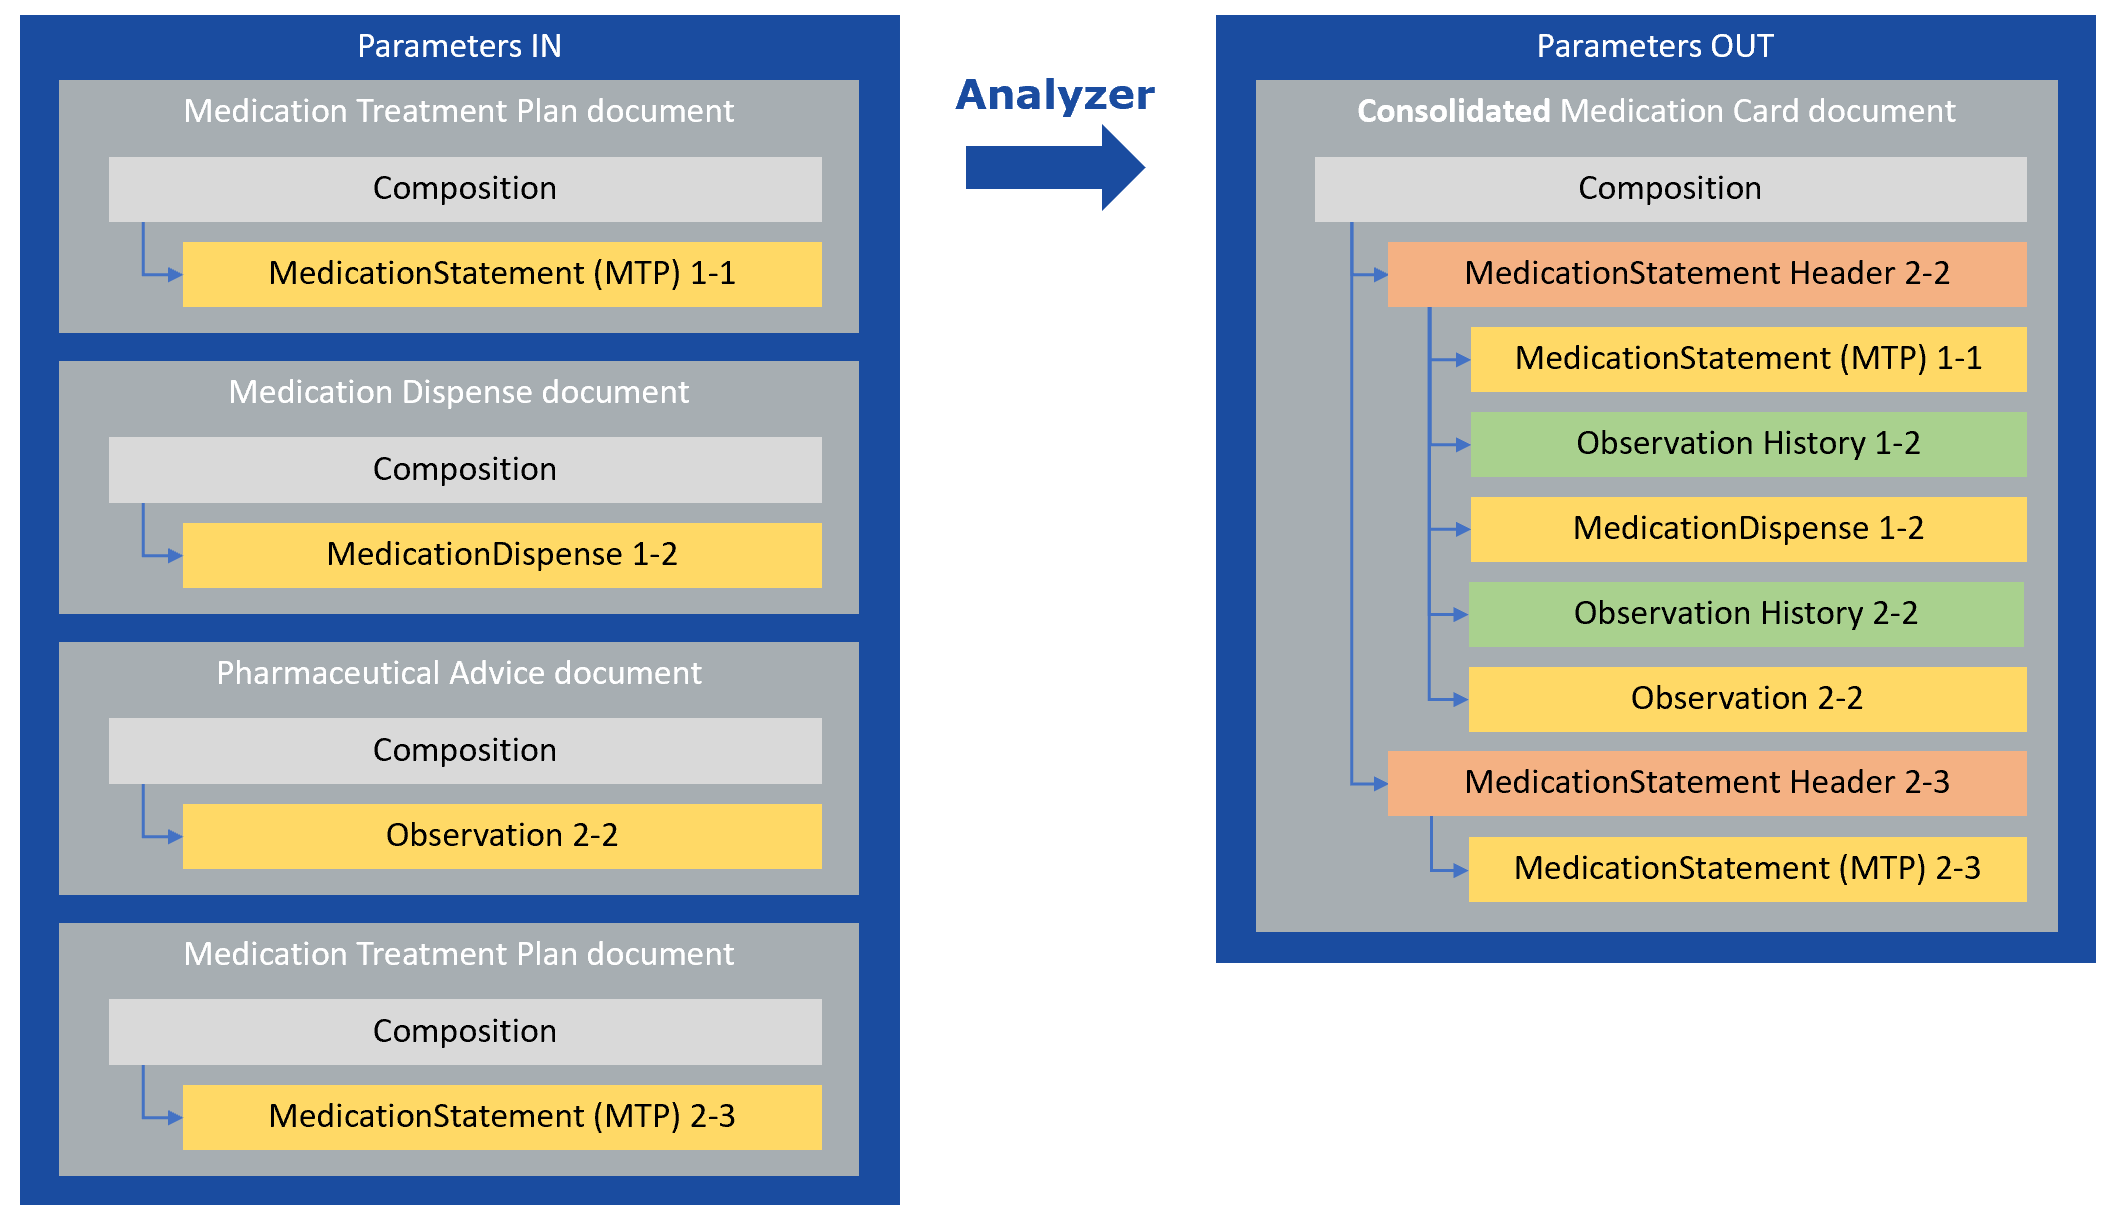
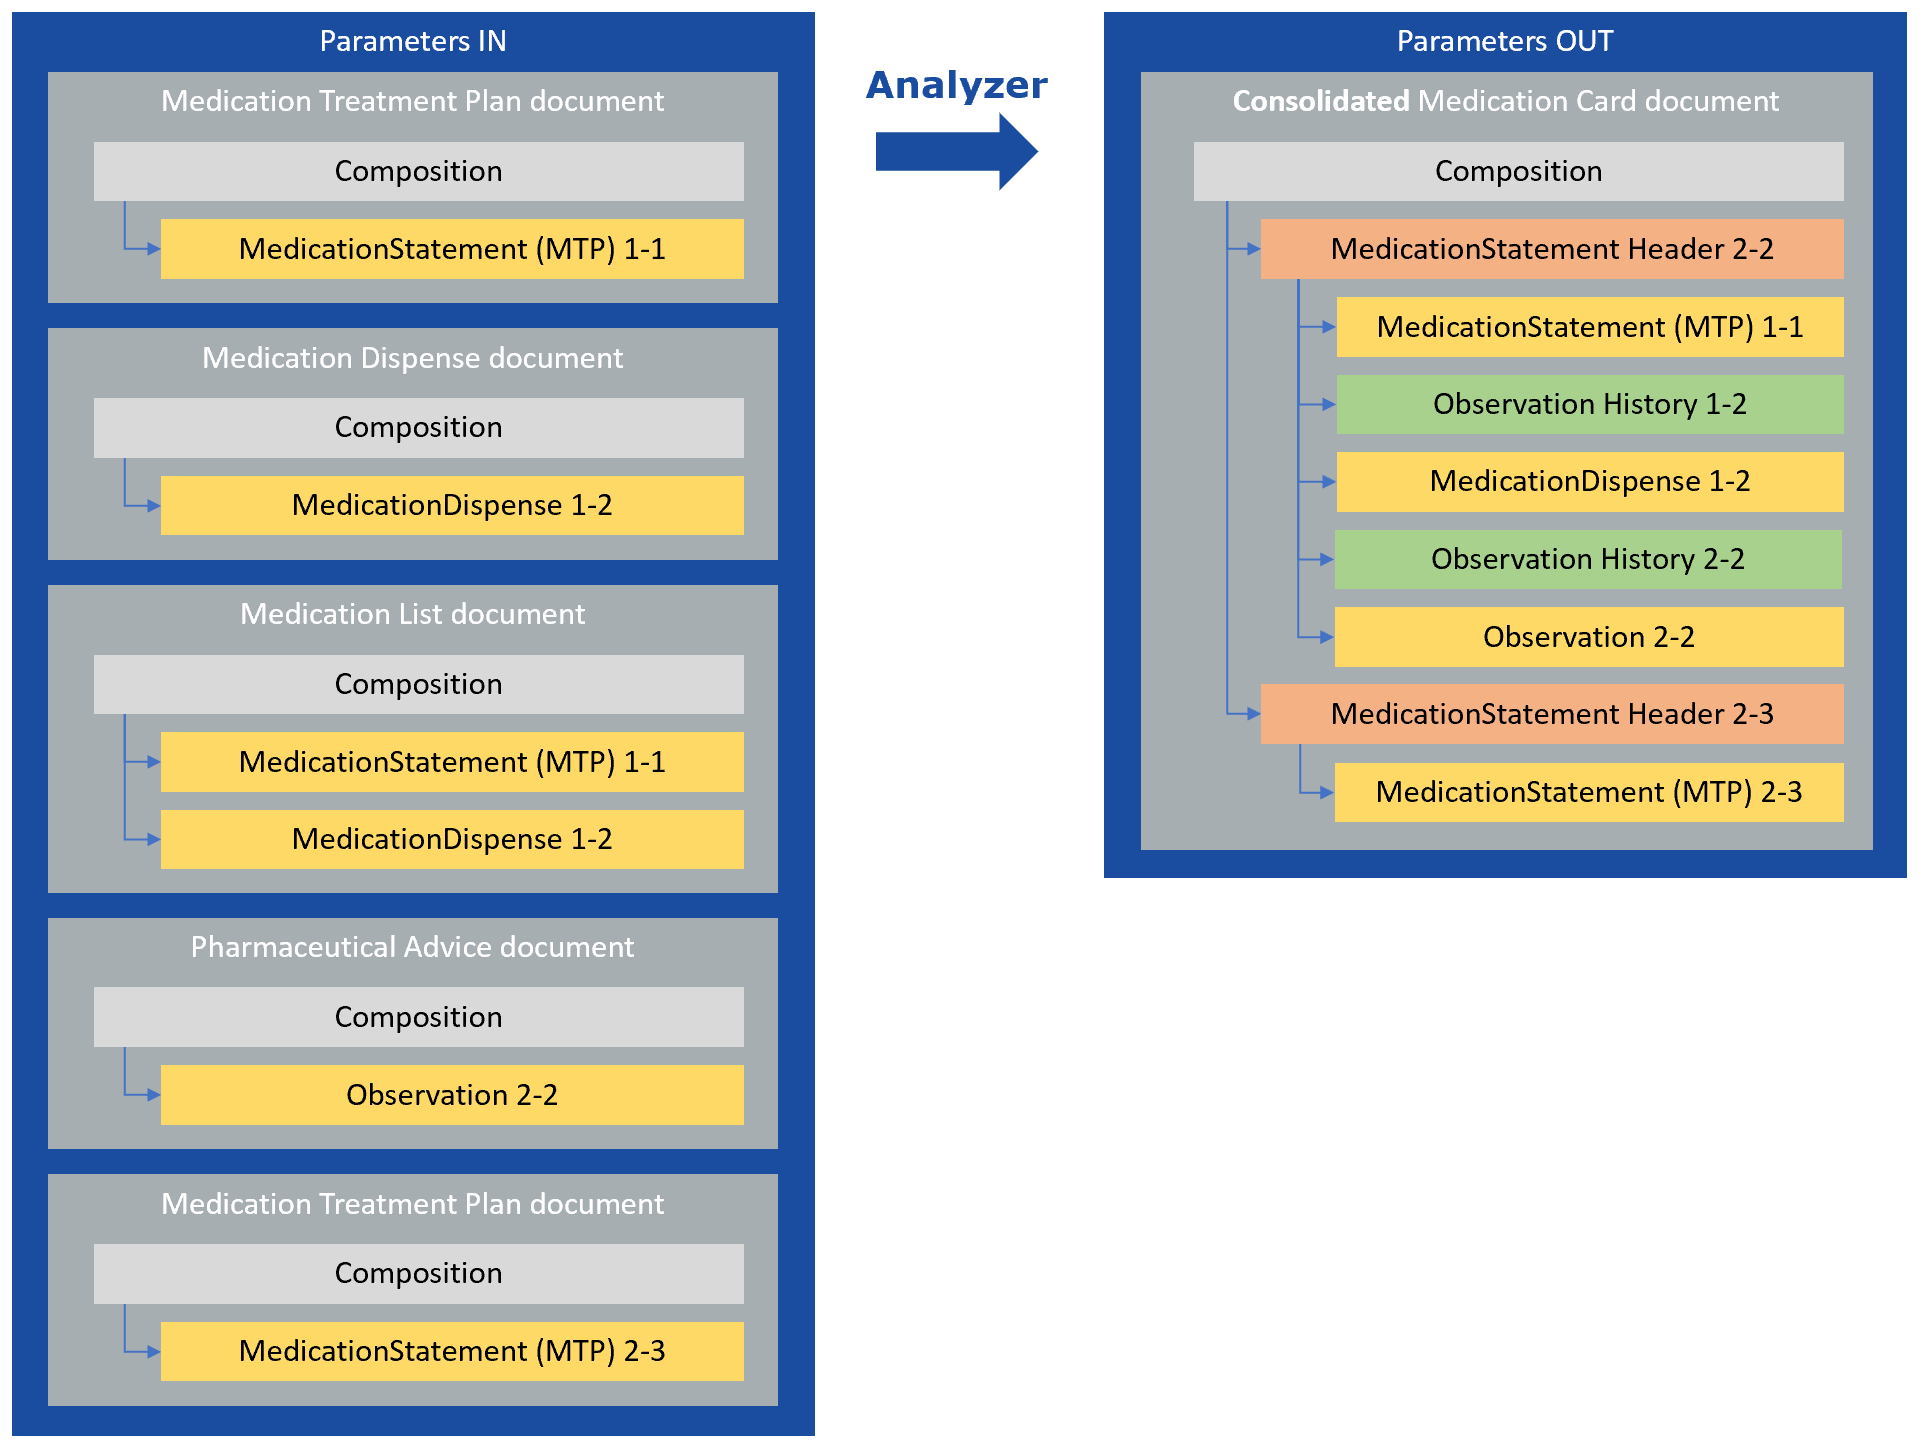
add step 2-1 to uc (medication list)

diff --git a/input/pagecontent/usecases.md b/input/pagecontent/usecases.md
@@ -16,13 +16,17 @@ Die in diesem Abschnitt abgebildeten Anwendungsfälle basieren auf dem Fallbeisp
 {% include img.html img="uc_1-2.png" caption="Fig.: Schematic illustration of the input and output documents" width="80%" %}
 
 #### 2-1 Medikationsliste (Medication List document)
-Arbeitshypothese: Die Medikationsliste ist ein dynamisch generiertes Dokument und wird daher nicht als Inputdokument für den Analyzer auftreten.
+* [2-1 Input Analyzer](Parameters-2-1-Input-Analyzer.html)
+   * Inputdokumente: [1-1 MTP](http://fhir.ch/ig/ch-emed/Bundle-1-1-MedicationTreatmentPlan.html), [1-2 DIS](http://fhir.ch/ig/ch-emed/Bundle-1-2-MedicationDispense.html), [2-1 LIST](https://fhir.ch/ig/ch-emed/Bundle-2-1-MedicationList.html)
+* [1-2 Consolidated Medication Card document](Parameters-1-2-ConsolidatedMedicationCard.html)
+
+{% include img.html img="uc_2-1.png" caption="Fig.: Schematic illustration of the input and output documents" width="80%" %}
 
 
 #### 2-2 Kommentar zur Medikation (Pharmaceutical Advice document)
 PADV = **CANCEL** (Abgesetzt aufgrund UAW trockener Husten)
 * [2-2 Input Analyzer](Parameters-2-2-Input-Analyzer.html)
-   * Inputdokumente: [1-1 MTP](http://fhir.ch/ig/ch-emed/Bundle-1-1-MedicationTreatmentPlan.html), [1-2 DIS](http://fhir.ch/ig/ch-emed/Bundle-1-2-MedicationDispense.html), [2-2 PADV CANCEL](http://fhir.ch/ig/ch-emed/Bundle-2-2-PharmaceuticalAdvice.html)
+   * Inputdokumente: [1-1 MTP](http://fhir.ch/ig/ch-emed/Bundle-1-1-MedicationTreatmentPlan.html), [1-2 DIS](http://fhir.ch/ig/ch-emed/Bundle-1-2-MedicationDispense.html), [2-1 LIST](https://fhir.ch/ig/ch-emed/Bundle-2-1-MedicationList.html), [2-2 PADV CANCEL](http://fhir.ch/ig/ch-emed/Bundle-2-2-PharmaceuticalAdvice.html)
 * [2-2 Consolidated Medication Card document](Parameters-2-2-ConsolidatedMedicationCard.html)
 
 ##### Tesfall Triatec: Kommentar
@@ -30,7 +34,7 @@ PADV = **COMMENT** (Patientin verträgt das Medikament gut)
 Für Testzwecke wird das PADV CANCEL mit diesem PADV COMMENT ersetzt. 
 Dieser Kommentar (PADV) wird im weiteren Verlauf des Use Cases nicht mehr verfolgt.
 * [2-2 COMMENT Input Analyzer](Parameters-2-2-Comment-Input-Analyzer.html)
-   * Inputdokumente: [1-1 MTP](http://fhir.ch/ig/ch-emed/Bundle-1-1-MedicationTreatmentPlan.html), [1-2 DIS](http://fhir.ch/ig/ch-emed/Bundle-1-2-MedicationDispense.html), 2-2 PADV COMMENT
+   * Inputdokumente: [1-1 MTP](http://fhir.ch/ig/ch-emed/Bundle-1-1-MedicationTreatmentPlan.html), [1-2 DIS](http://fhir.ch/ig/ch-emed/Bundle-1-2-MedicationDispense.html), [2-1 LIST](https://fhir.ch/ig/ch-emed/Bundle-2-1-MedicationList.html), 2-2 PADV COMMENT
 * [2-2 COMMENT Consolidated Medication Card document](Parameters-2-2-Comment-ConsolidatedMedicationCard.html)
 
 
@@ -38,7 +42,7 @@ Dieser Kommentar (PADV) wird im weiteren Verlauf des Use Cases nicht mehr verfol
 
 #### 2-3 Therapieentscheid Medikation (Medication Treatment Plan document)
 * [2-3 Input Analyzer](Parameters-2-3-Input-Analyzer.html)
-   * Inputdokumente: [1-1 MTP](http://fhir.ch/ig/ch-emed/Bundle-1-1-MedicationTreatmentPlan.html), [1-2 DIS](http://fhir.ch/ig/ch-emed/Bundle-1-2-MedicationDispense.html), [2-2 PADV](http://fhir.ch/ig/ch-emed/Bundle-2-2-PharmaceuticalAdvice.html), [2-3 MTP](http://fhir.ch/ig/ch-emed/Bundle-2-3-MedicationTreatmentPlan.html)
+   * Inputdokumente: [1-1 MTP](http://fhir.ch/ig/ch-emed/Bundle-1-1-MedicationTreatmentPlan.html), [1-2 DIS](http://fhir.ch/ig/ch-emed/Bundle-1-2-MedicationDispense.html), [2-1 LIST](https://fhir.ch/ig/ch-emed/Bundle-2-1-MedicationList.html), [2-2 PADV](http://fhir.ch/ig/ch-emed/Bundle-2-2-PharmaceuticalAdvice.html), [2-3 MTP](http://fhir.ch/ig/ch-emed/Bundle-2-3-MedicationTreatmentPlan.html)
 * [2-3 Consolidated Medication Card document](Parameters-2-3-ConsolidatedMedicationCard.html)
 
 
@@ -52,7 +56,7 @@ Abgesetztes Triatec wird für Testzwecke nicht aufgeführt.
 
 #### 2-4 Abgabe (Medication Dispense document)
 * [2-4 Input Analyzer](Parameters-2-4-Input-Analyzer.html)
-   * Inputdokumente: [1-1 MTP](http://fhir.ch/ig/ch-emed/Bundle-1-1-MedicationTreatmentPlan.html), [1-2 DIS](http://fhir.ch/ig/ch-emed/Bundle-1-2-MedicationDispense.html), [2-2 PADV](http://fhir.ch/ig/ch-emed/Bundle-2-2-PharmaceuticalAdvice.html), [2-3 MTP](http://fhir.ch/ig/ch-emed/Bundle-2-3-MedicationTreatmentPlan.html), [2-4 DIS](http://fhir.ch/ig/ch-emed/Bundle-2-4-MedicationDispense.html)
+   * Inputdokumente: [1-1 MTP](http://fhir.ch/ig/ch-emed/Bundle-1-1-MedicationTreatmentPlan.html), [1-2 DIS](http://fhir.ch/ig/ch-emed/Bundle-1-2-MedicationDispense.html), [2-1 LIST](https://fhir.ch/ig/ch-emed/Bundle-2-1-MedicationList.html), [2-2 PADV](http://fhir.ch/ig/ch-emed/Bundle-2-2-PharmaceuticalAdvice.html), [2-3 MTP](http://fhir.ch/ig/ch-emed/Bundle-2-3-MedicationTreatmentPlan.html), [2-4 DIS](http://fhir.ch/ig/ch-emed/Bundle-2-4-MedicationDispense.html)
 * [2-4 Consolidated Medication Card document](Parameters-2-4-ConsolidatedMedicationCard.html)
 
 {% include img.html img="uc_2-4.png" caption="Fig.: Schematic illustration of the input and output documents" width="80%" %}
@@ -65,7 +69,7 @@ Abgesetztes Triatec wird für Testzwecke nicht aufgeführt.
 
 #### 2-5 Therapieentscheid Medikation (Medication Treatment Plan document)
 * [2-5 Input Analyzer](Parameters-2-5-Input-Analyzer.html)
-   * Inputdokumente: [1-1 MTP](http://fhir.ch/ig/ch-emed/Bundle-1-1-MedicationTreatmentPlan.html), [1-2 DIS](http://fhir.ch/ig/ch-emed/Bundle-1-2-MedicationDispense.html), [2-2 PADV](http://fhir.ch/ig/ch-emed/Bundle-2-2-PharmaceuticalAdvice.html), [2-3 MTP](http://fhir.ch/ig/ch-emed/Bundle-2-3-MedicationTreatmentPlan.html), [2-4 DIS](http://fhir.ch/ig/ch-emed/Bundle-2-4-MedicationDispense.html), [2-5 MTP](http://fhir.ch/ig/ch-emed/Bundle-2-5-MedicationTreatmentPlan.html)
+   * Inputdokumente: [1-1 MTP](http://fhir.ch/ig/ch-emed/Bundle-1-1-MedicationTreatmentPlan.html), [1-2 DIS](http://fhir.ch/ig/ch-emed/Bundle-1-2-MedicationDispense.html), [2-1 LIST](https://fhir.ch/ig/ch-emed/Bundle-2-1-MedicationList.html), [2-2 PADV](http://fhir.ch/ig/ch-emed/Bundle-2-2-PharmaceuticalAdvice.html), [2-3 MTP](http://fhir.ch/ig/ch-emed/Bundle-2-3-MedicationTreatmentPlan.html), [2-4 DIS](http://fhir.ch/ig/ch-emed/Bundle-2-4-MedicationDispense.html), [2-5 MTP](http://fhir.ch/ig/ch-emed/Bundle-2-5-MedicationTreatmentPlan.html)
 * [2-5 Consolidated Medication Card document](Parameters-2-5-ConsolidatedMedicationCard.html)
 
 {% include img.html img="uc_2-5.png" caption="Fig.: Schematic illustration of the input and output documents" width="80%" %}
@@ -78,7 +82,7 @@ Abgesetztes Triatec und abgegebenes Beloc Zok werden für Testzwecke nicht aufge
 
 #### 2-6 Rezept (Medication Prescription document)
 * [2-6 Input Analyzer](Parameters-2-6-Input-Analyzer.html)
-   * Inputdokumente: [1-1 MTP](http://fhir.ch/ig/ch-emed/Bundle-1-1-MedicationTreatmentPlan.html), [1-2 DIS](http://fhir.ch/ig/ch-emed/Bundle-1-2-MedicationDispense.html), [2-2 PADV](http://fhir.ch/ig/ch-emed/Bundle-2-2-PharmaceuticalAdvice.html), [2-3 MTP](http://fhir.ch/ig/ch-emed/Bundle-2-3-MedicationTreatmentPlan.html), [2-4 DIS](http://fhir.ch/ig/ch-emed/Bundle-2-4-MedicationDispense.html), [2-5 MTP](http://fhir.ch/ig/ch-emed/Bundle-2-5-MedicationTreatmentPlan.html), [2-6 PRE](http://fhir.ch/ig/ch-emed/Bundle-2-6-MedicationPrescription.html)
+   * Inputdokumente: [1-1 MTP](http://fhir.ch/ig/ch-emed/Bundle-1-1-MedicationTreatmentPlan.html), [1-2 DIS](http://fhir.ch/ig/ch-emed/Bundle-1-2-MedicationDispense.html), [2-1 LIST](https://fhir.ch/ig/ch-emed/Bundle-2-1-MedicationList.html), [2-2 PADV](http://fhir.ch/ig/ch-emed/Bundle-2-2-PharmaceuticalAdvice.html), [2-3 MTP](http://fhir.ch/ig/ch-emed/Bundle-2-3-MedicationTreatmentPlan.html), [2-4 DIS](http://fhir.ch/ig/ch-emed/Bundle-2-4-MedicationDispense.html), [2-5 MTP](http://fhir.ch/ig/ch-emed/Bundle-2-5-MedicationTreatmentPlan.html), [2-6 PRE](http://fhir.ch/ig/ch-emed/Bundle-2-6-MedicationPrescription.html)
 * [2-6 Consolidated Medication Card document](Parameters-2-6-ConsolidatedMedicationCard.html)
 
 {% include img.html img="uc_2-6.png" caption="Fig.: Schematic illustration of the input and output documents" width="80%" %}
@@ -91,7 +95,7 @@ Abgesetztes Triatec und abgegebenes Beloc Zok werden für Testzwecke nicht aufge
 
 #### 2-7 Medikationsplan (Medication Card document)
 * [2-7 Input Analyzer](Parameters-2-7-Input-Analyzer.html)
-   * Inputdokumente: [1-1 MTP](http://fhir.ch/ig/ch-emed/Bundle-1-1-MedicationTreatmentPlan.html), [1-2 DIS](http://fhir.ch/ig/ch-emed/Bundle-1-2-MedicationDispense.html), [2-2 PADV](http://fhir.ch/ig/ch-emed/Bundle-2-2-PharmaceuticalAdvice.html), [2-3 MTP](http://fhir.ch/ig/ch-emed/Bundle-2-3-MedicationTreatmentPlan.html), [2-4 DIS](http://fhir.ch/ig/ch-emed/Bundle-2-4-MedicationDispense.html), [2-5 MTP](http://fhir.ch/ig/ch-emed/Bundle-2-5-MedicationTreatmentPlan.html), [2-6 PRE](http://fhir.ch/ig/ch-emed/Bundle-2-6-MedicationPrescription.html), [2-7 Card](http://fhir.ch/ig/ch-emed/Bundle-2-7-MedicationCard.html)
+   * Inputdokumente: [1-1 MTP](http://fhir.ch/ig/ch-emed/Bundle-1-1-MedicationTreatmentPlan.html), [1-2 DIS](http://fhir.ch/ig/ch-emed/Bundle-1-2-MedicationDispense.html), [2-1 LIST](https://fhir.ch/ig/ch-emed/Bundle-2-1-MedicationList.html), [2-2 PADV](http://fhir.ch/ig/ch-emed/Bundle-2-2-PharmaceuticalAdvice.html), [2-3 MTP](http://fhir.ch/ig/ch-emed/Bundle-2-3-MedicationTreatmentPlan.html), [2-4 DIS](http://fhir.ch/ig/ch-emed/Bundle-2-4-MedicationDispense.html), [2-5 MTP](http://fhir.ch/ig/ch-emed/Bundle-2-5-MedicationTreatmentPlan.html), [2-6 PRE](http://fhir.ch/ig/ch-emed/Bundle-2-6-MedicationPrescription.html), [2-7 Card](http://fhir.ch/ig/ch-emed/Bundle-2-7-MedicationCard.html)
 * [2-7 Consolidated Medication Card document](Parameters-2-7-ConsolidatedMedicationCard.html)
 
 {% include img.html img="uc_2-7.png" caption="Fig.: Schematic illustration of the input and output documents" width="80%" %}
